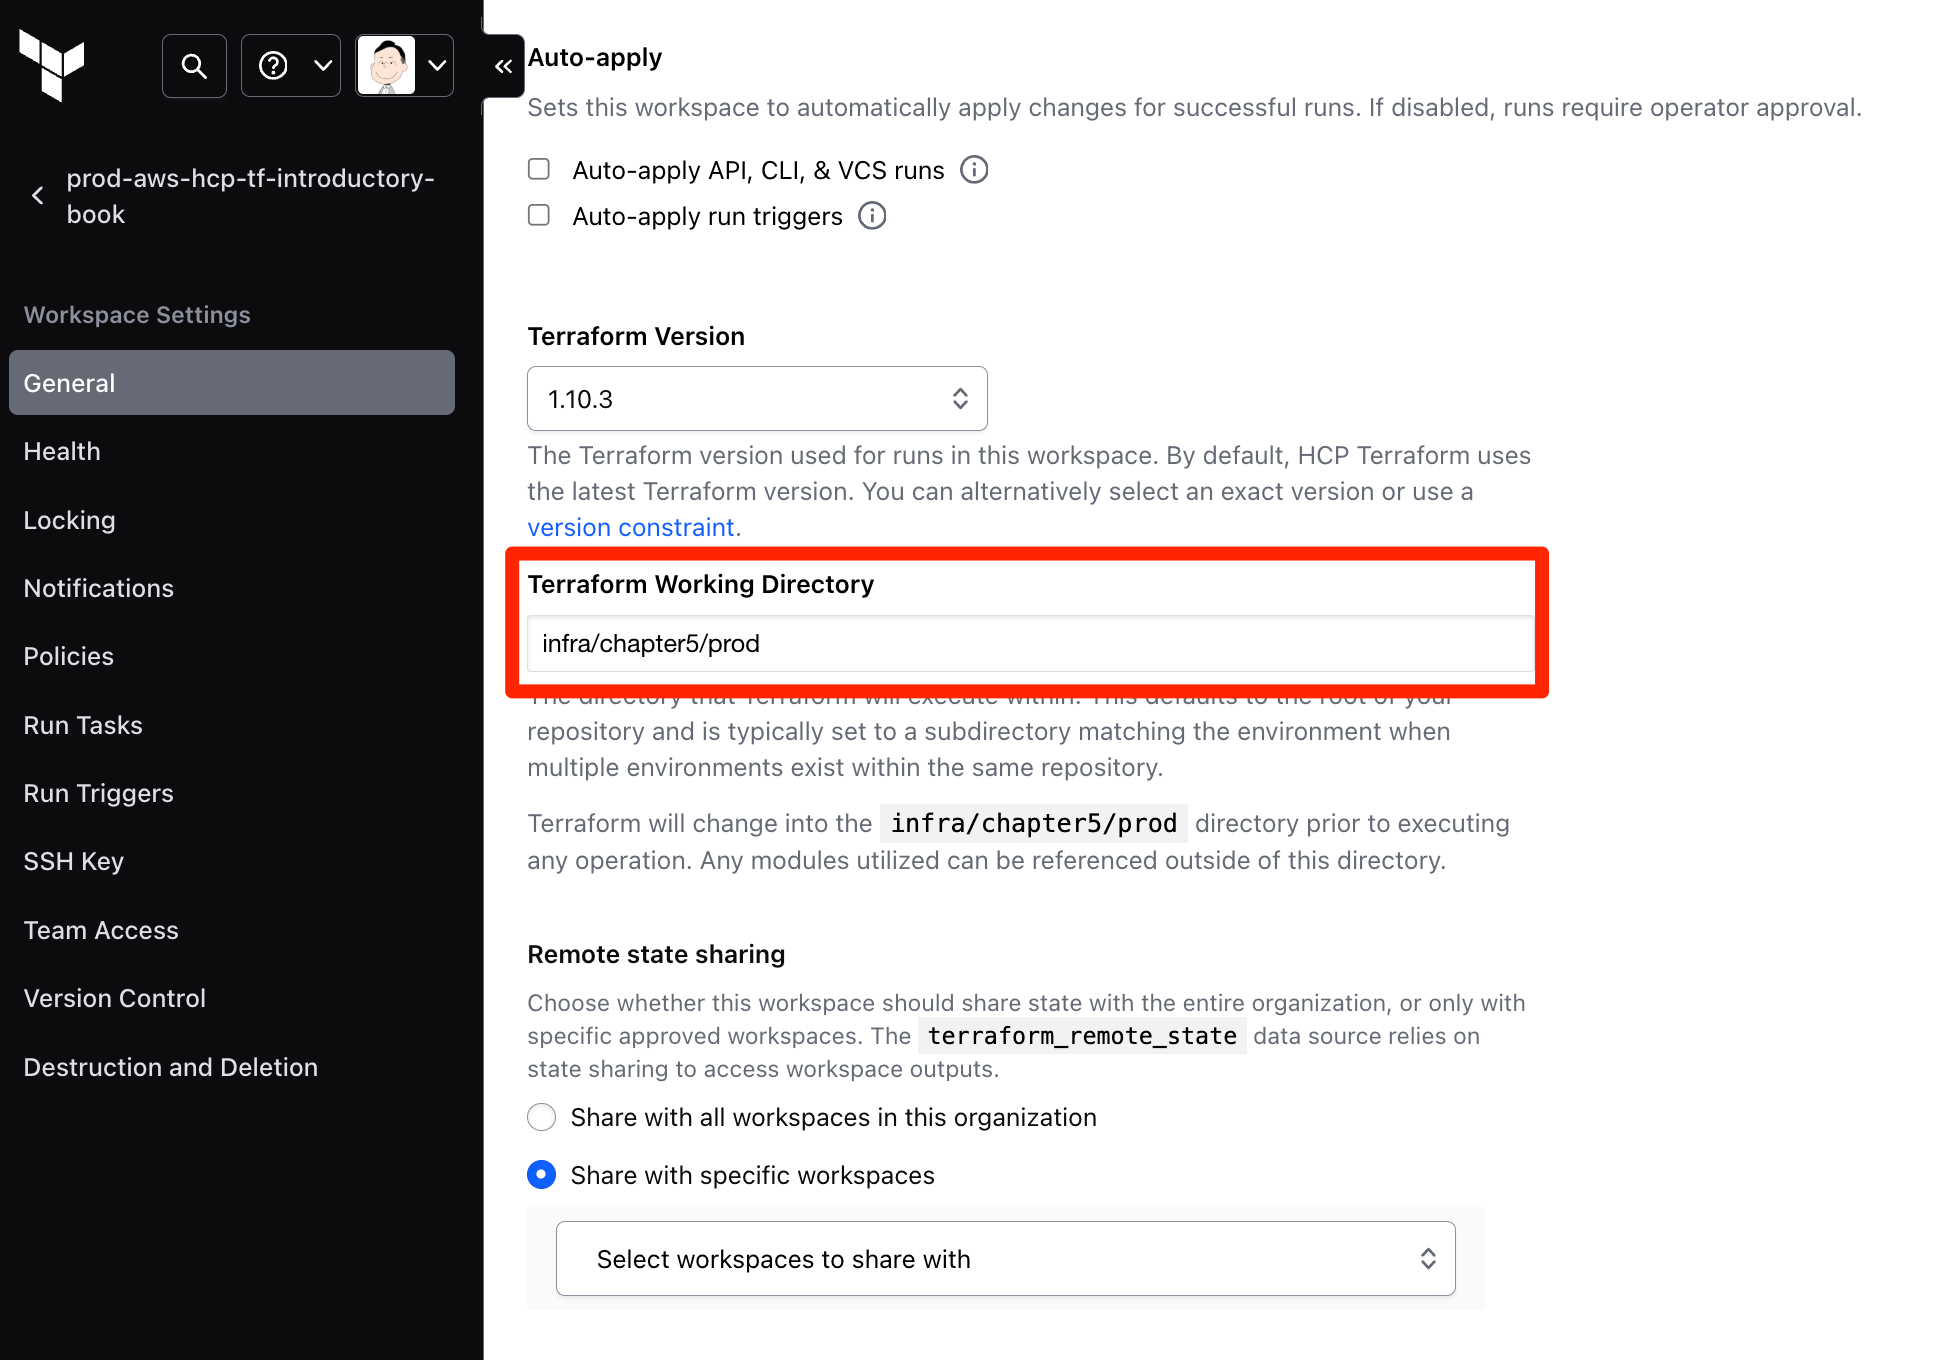
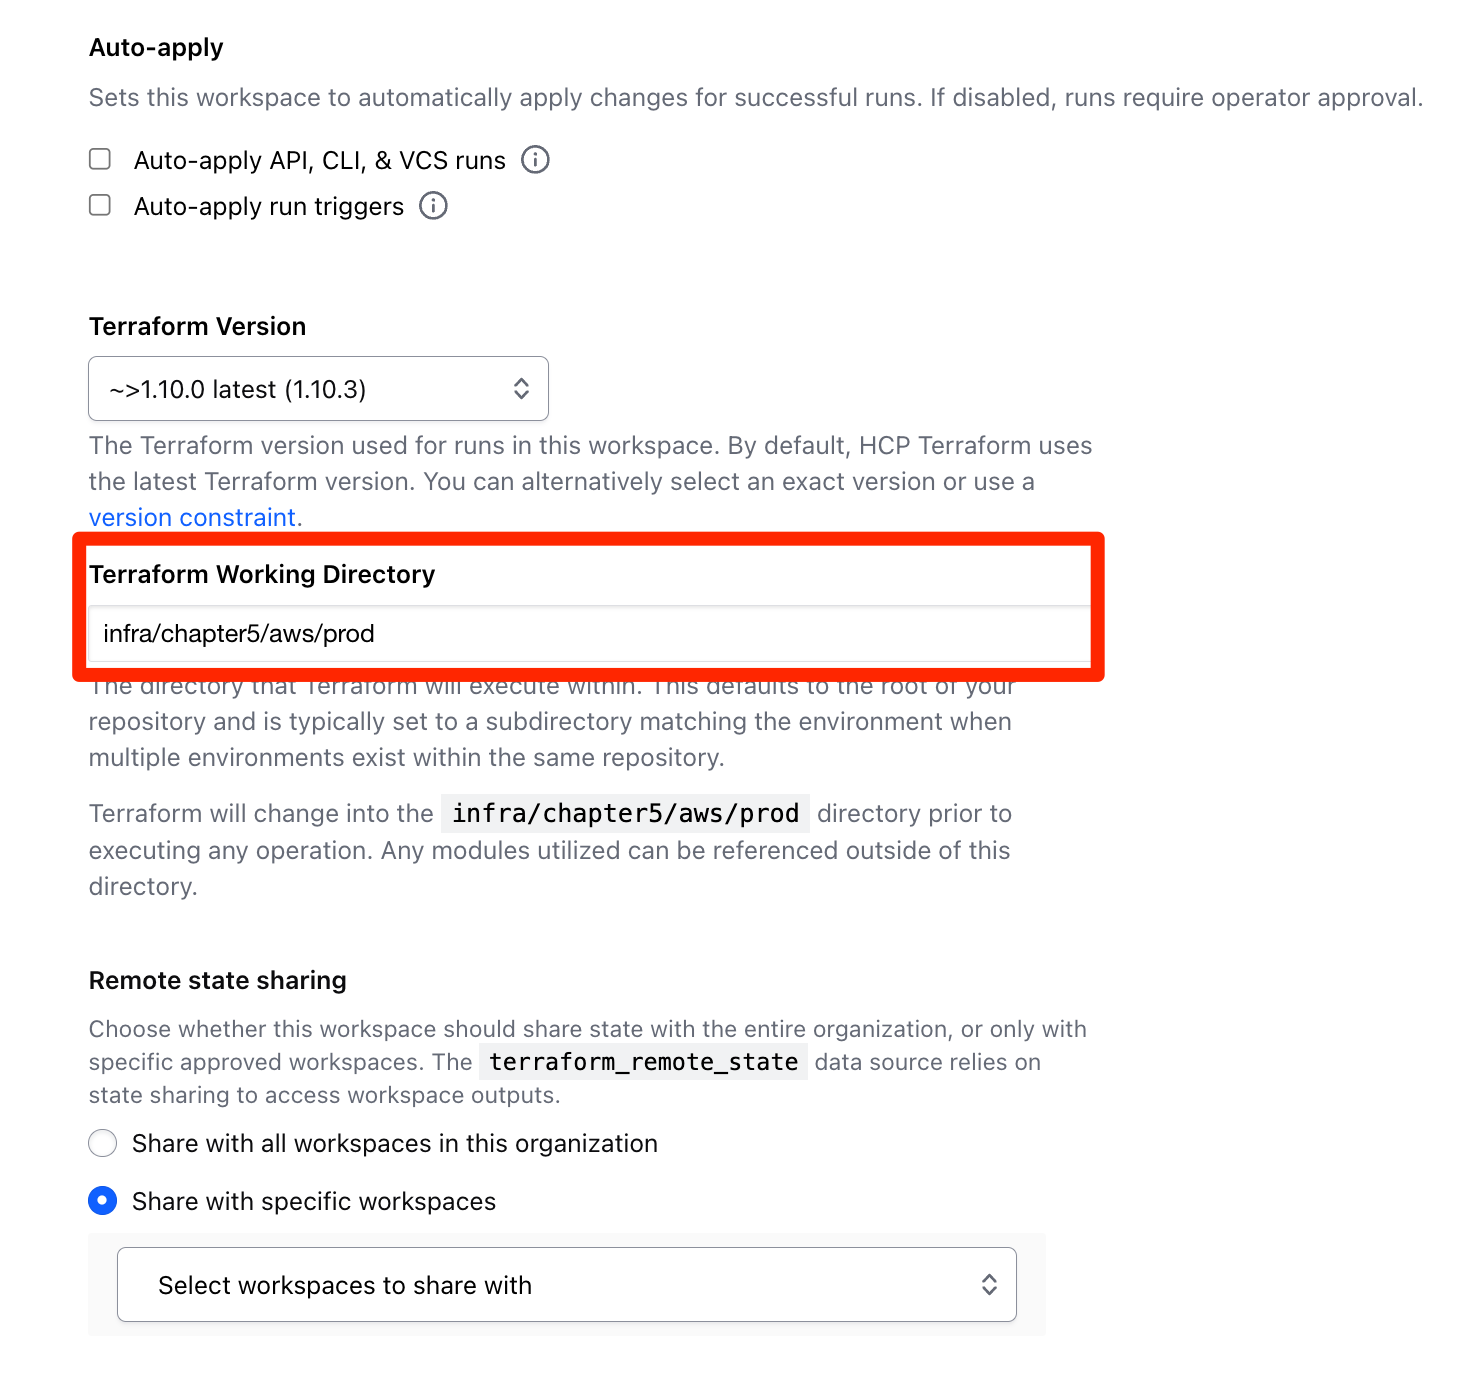
update: tfeプロバイダーを使用したデプロイ手順の追加

diff --git a/books/tfc-aws-introductory-book/05_05_tfe_tfc_github_deploy.md b/books/tfc-aws-introductory-book/05_05_tfe_tfc_github_deploy.md
@@ -1,0 +1,169 @@
+---
+title: "　(tfe provider利用版)HCP TerraformとGitHubリポジトリを接続してデプロイを実行"
+---
+
+:::message
+tfe providerを使うことでHCP Terraformの設定をTerraformで管理できます。
+
+https://registry.terraform.io/providers/hashicorp/tfe/latest
+
+前節「HCP TerraformとGitHubリポジトリを接続してデプロイを実行」のHCP Terraformの設定をTerraformで管理する方法を紹介します。
+
+:::
+
+![](/images/chapter_5/04-00-diagram.png)
+
+## 前提
+
+この手順は前節「HCP TerraformとGitHubリポジトリを接続してデプロイを実行」を実施していなくても実行できます。
+
+以下が手順の前提条件です。
+
+- 「HCP Terraform用IAMロール作成」まで完了している
+- 今回利用するGitHub OrganizationsにHCP Terraform用GitHub Appをインストール済み
+  - 前節まで実施済みであれば、インストール済み
+
+GitHub Appのインストール状況は、VCS Driven Workspace作成時に今回選択したいリポジトリが表示されていればインストール済みです。
+
+GitHub App未インストールの場合は、「HCP TerraformとGitHubリポジトリを接続してデプロイを実行」の「Workspace作成(VCS Driven)」の部分を実行する必要があります。
+
+GitHub AppはHCP Terraform WorkspaceでGitHubとの接続を行う際にインストールされます。
+
+## tfファイルの説明
+
+[サンプルリポジトリ](https://github.com/msato0731/aws-tfc-introductory-book-samples)の`infra/chapter5/tfe`が今回利用するコードです。
+
+```bash
+cd infra/chapter5/tfe
+cat main.tf
+```
+
+Project・Variable Set・Workspaceを作成するコードです。
+
+```hcl: main.tf
+data "tfe_github_app_installation" "this" {
+  name = var.github_organization_name
+}
+
+resource "tfe_project" "this" {
+  organization = var.organization_name
+  name         = var.project_name
+}
+
+resource "tfe_variable_set" "this" {
+  name         = var.variable_set_name
+  organization = var.organization_name
+}
+
+resource "tfe_project_variable_set" "this" {
+  project_id      = tfe_project.this.id
+  variable_set_id = tfe_variable_set.this.id
+}
+
+resource "tfe_variable" "aws_provider_auth" {
+  key             = "TFC_AWS_PROVIDER_AUTH"
+  value           = "true"
+  category        = "env"
+  variable_set_id = tfe_variable_set.this.id
+}
+
+resource "tfe_variable" "aws_run_role_arn" {
+  key             = "TFC_AWS_RUN_ROLE_ARN"
+  value           = var.aws_run_role_arn
+  category        = "env"
+  variable_set_id = tfe_variable_set.this.id
+}
+
+resource "tfe_workspace" "prod" {
+  name                  = "prod-${var.workspace_name_suffix}"
+  organization          = var.organization_name
+  project_id            = tfe_project.this.id
+  auto_apply            = false
+  file_triggers_enabled = false
+  terraform_version     = "~> 1.10.2"
+  working_directory     = "infra/aws/chapter5/prod"
+
+  vcs_repo {
+    identifier                 = "${var.github_organization_name}/aws-tfc-introductory-book-samples"
+    branch                     = "main"
+    github_app_installation_id = data.tfe_github_app_installation.this.id
+  }
+}
+
+resource "tfe_workspace" "stg" {
+  name                  = "stg-${var.workspace_name_suffix}"
+  organization          = var.organization_name
+  project_id            = tfe_project.this.id
+  auto_apply            = true
+  file_triggers_enabled = false
+  terraform_version     = "~> 1.10.2"
+  working_directory     = "infra/aws/chapter5/stg"
+
+  vcs_repo {
+    identifier                 = "${var.github_organization_name}/aws-tfc-introductory-book-samples"
+    branch                     = "main"
+    github_app_installation_id = data.tfe_github_app_installation.this.id
+  }
+}
+```
+
+## HCP Terraform関連リソース作成(Project・Variables Set・Workspace)
+
+Terraformでリソースを作成します。
+
+各自の環境で異なる値を表現するために、terraform.tfvarsを用意します。
+
+```bash
+cp terraform.tfvars.sample terraform.tfvars
+```
+
+以下のように編集します。
+
+任意の箇所は、デフォルトで作成される値から変えたい場合にお使いください。(例: 複数名で1 Organizationsを使って手順を実施・前節の環境を残しつつ手順を実行したい等)
+
+```hcl: terraform.tfvars
+organization_name        = "<HCP Terraform Organizations名>"
+# project_name             = "" # 任意
+# variable_set_name        = "" # 任意
+# workspace_name_suffix    = "" # 任意
+github_organization_name = "<GitHub Organization名またはユーザー名>"
+aws_run_role_arn         = "<HCP Terraform用IAMロール ARN>"
+```
+
+```bash
+terraform init
+terraform plan
+terraform apply
+```
+
+:::message
+今回は手順の簡略化のために、tfe provider用のTerraformのバックエンドはローカルとなっています。
+tfe provider管理用のWorkspaceを手動で作成し、tfe provider用のTerraformのバックエンドにHCP Terraformを利用する方法もあります。
+ガバナンスの観点から、HCP Terraformをバックエンドにする方法が好ましいです。
+:::
+
+## 動作確認
+
+[前節](https://zenn.dev/chario/books/tfc-aws-introductory-book/viewer/05_04_tfc_github_deploy#%E5%8B%95%E4%BD%9C%E7%A2%BA%E8%AA%8D)をご確認ください。
+
+## 後片付け
+
+### AWS関連リソース削除
+
+[前節](https://zenn.dev/chario/books/tfc-aws-introductory-book/viewer/05_04_tfc_github_deploy#%E3%83%AA%E3%82%BD%E3%83%BC%E3%82%B9%E5%89%8A%E9%99%A4)をご確認ください。
+
+### HCP Terraform関連リソース削除
+
+HCP Terraform関連リソースもTerraformで管理しているため、Terraform経由で削除可能です。
+
+```bash
+terraform destroy
+```
+
+destroy実行時に以下のエラーが出る場合は、AWSリソースが残っている可能性があります。
+
+```bash
+│ Error: error deleting workspace ws-xxxxxxxxx: This workspace has 16 resources under management and must be force deleted by setting force_delete = true
+```
+
+前の手順「AWS関連リソース削除」を再度実行してください。

diff --git a/books/tfc-aws-introductory-book/05_03_prepare_tf_file.md b/books/tfc-aws-introductory-book/05_03_prepare_tf_file.md
@@ -15,7 +15,7 @@ title: "　tfファイル作成"
 
 ```bash
 git clone <forkしたリポジトリ>
-cd aws-tfc-introductory-book-samples/infra/chapter5/
+cd aws-tfc-introductory-book-samples/infra/aws/chapter5/
 ```
 
 ## ディレクトリ構成
@@ -25,11 +25,12 @@ cd aws-tfc-introductory-book-samples/infra/chapter5/
 ```bash
 aws-tfc-introductory-book-samples
 └── infra
-  └── chapter5
-    ├── ./prod
-    │   └── ./prod/main.tf
-    └── ./stg
-        └── ./stg/main.tf
+    └── chapter5
+        └── aws
+            ├── prod
+            │   └── main.tf
+            └── stg
+                └── main.tf
 ```
 
 ## tfファイルの説明
@@ -38,4 +39,50 @@ aws-tfc-introductory-book-samples
 
 今回はファイルの中身が同じなのであまり意味がないですが、`main.tf`で環境差異を吸収するパターンを想定しています。
 
-https://github.com/msato0731/aws-tfc-introductory-book-samples/blob/main/infra/chapter5/prod/main.tf
+```hcl
+terraform {
+  required_version = "~> 1.10.2"
+  required_providers {
+    aws = {
+      source  = "hashicorp/aws"
+      version = "~> 5.82.2"
+    }
+  }
+}
+
+provider "aws" {
+  region = "ap-northeast-1"
+}
+
+data "aws_availability_zones" "available" {}
+
+locals {
+  name     = "${basename(path.cwd)}-hcp-tf-aws-book"
+  vpc_cidr = "10.0.0.0/16"
+  azs      = slice(data.aws_availability_zones.available.names, 0, 3)
+}
+
+module "vpc" {
+  source             = "terraform-aws-modules/vpc/aws"
+  name               = local.name
+  cidr               = local.vpc_cidr
+  azs                = local.azs
+  private_subnets    = [for k, v in local.azs : cidrsubnet(local.vpc_cidr, 8, k)]
+  enable_nat_gateway = false
+}
+
+data "aws_ssm_parameter" "amazonlinux_2023" {
+  name = "/aws/service/ami-amazon-linux-latest/al2023-ami-kernel-6.1-x86_64" # x86_64
+}
+
+resource "aws_instance" "main" {
+  ami           = data.aws_ssm_parameter.amazonlinux_2023.value
+  instance_type = "t3.micro"
+  subnet_id     = module.vpc.private_subnets[0]
+  tags = {
+    Name = local.name
+    # 自動デプロイのテスト時にコメント外す
+    # Env = "prod"
+  }
+}
+```
